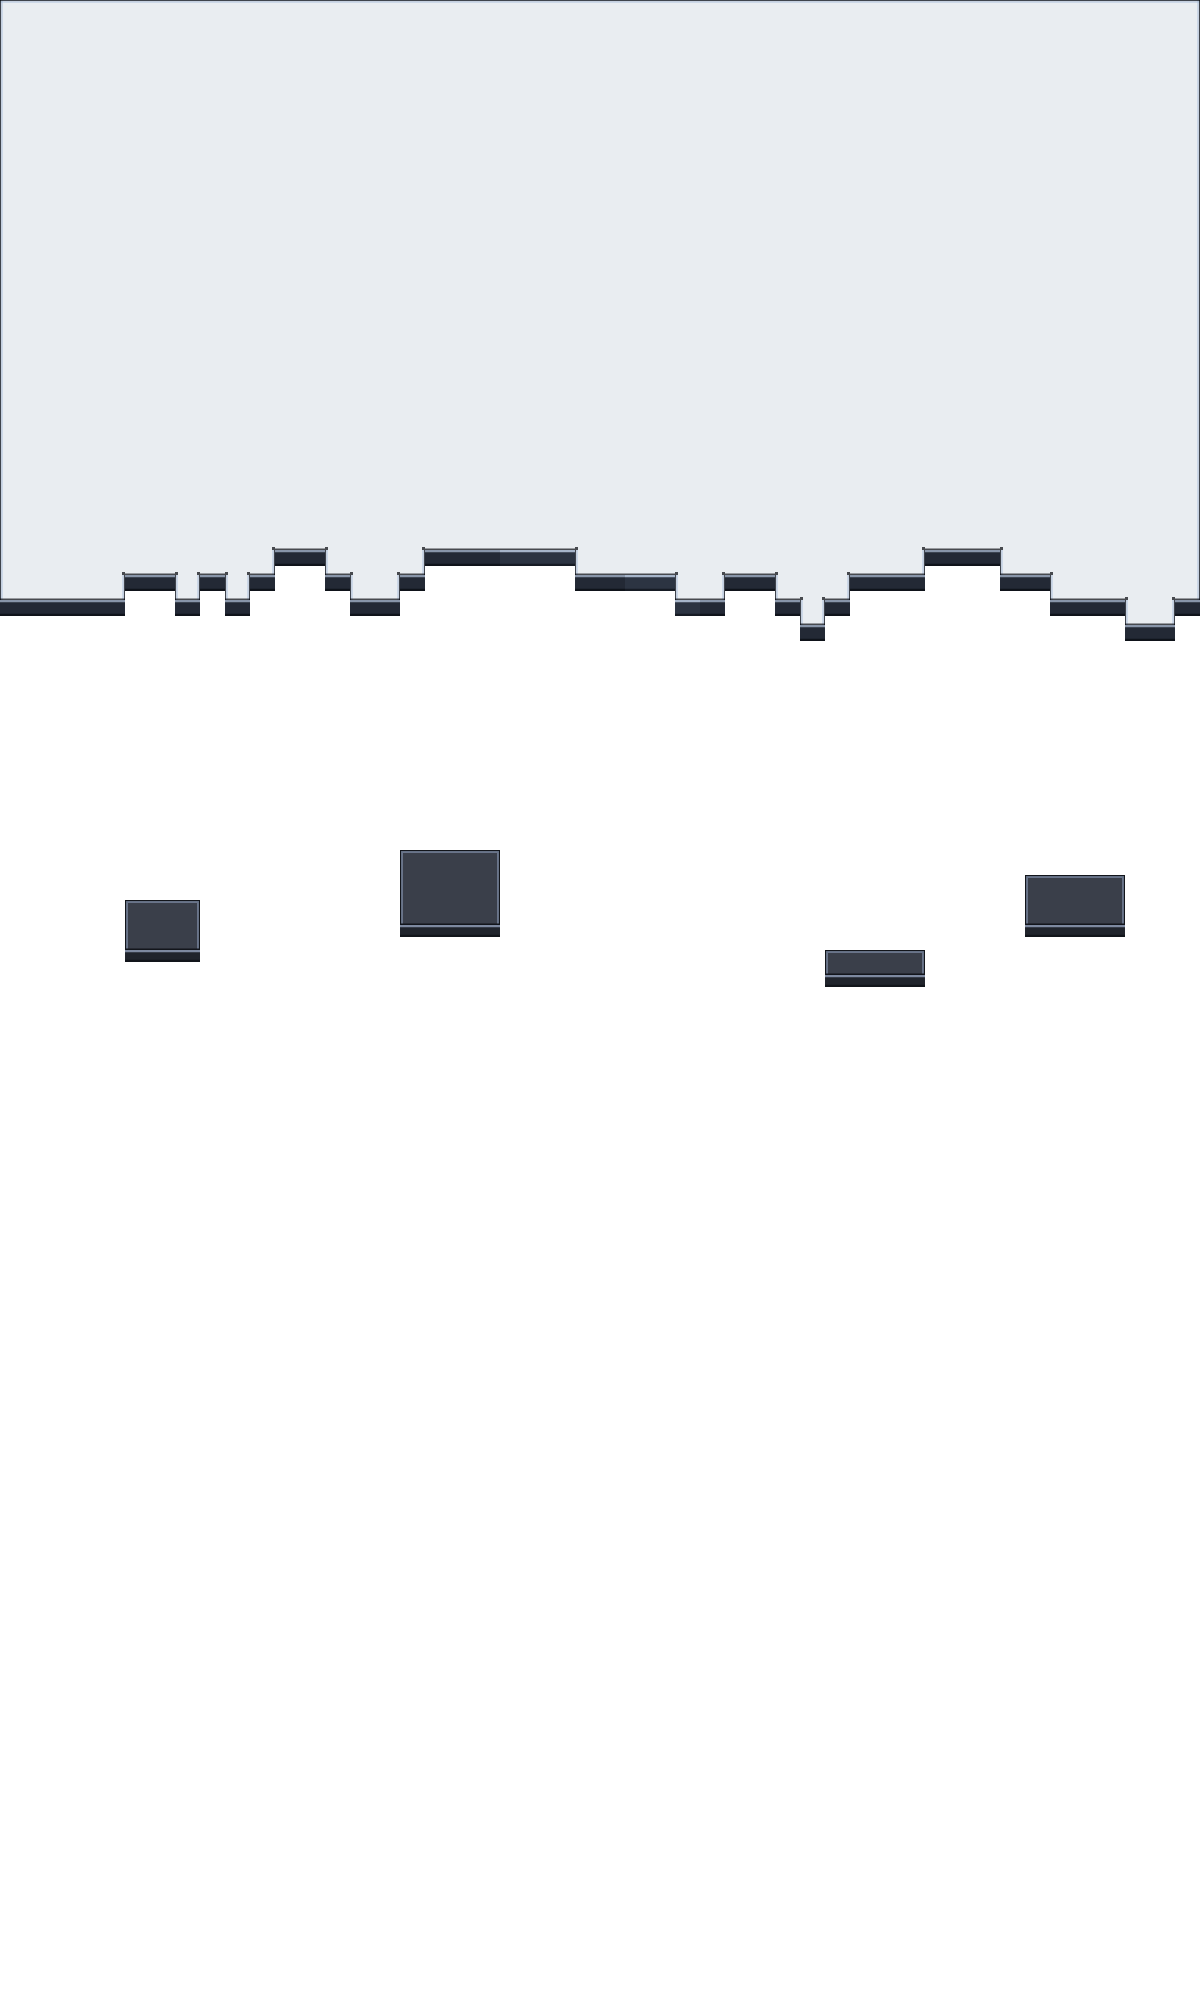
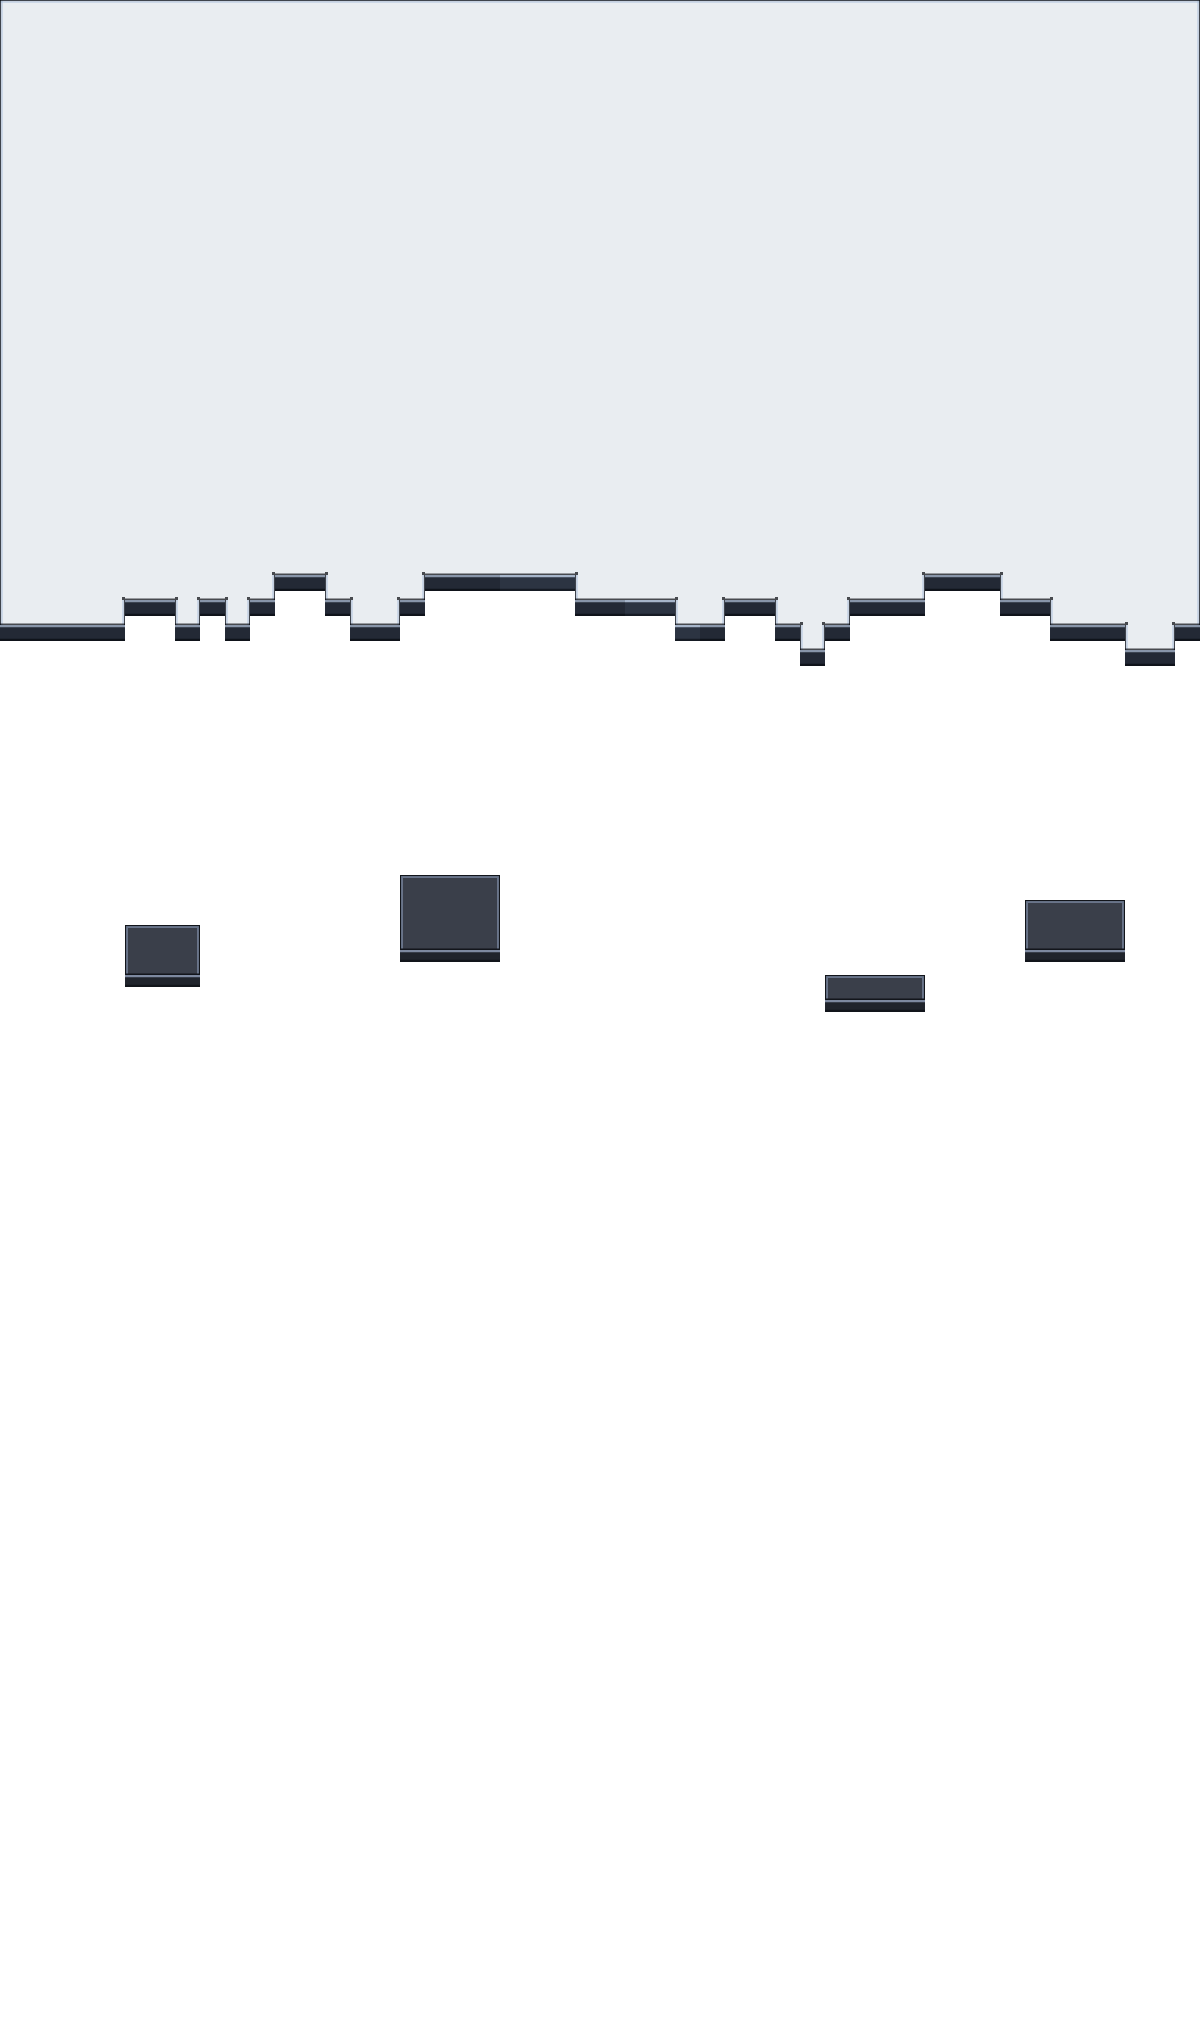
👁 지형층 2단계 — 절벽이 시야를 막는다
⭐ **막는 일은 이미 엔진이 하고 있었다.** `_fogReveal` 의
`if(!air && fogHeightAt(...)>vh) continue;` 한 줄이 「저지 → 고지」를 이미 자른다 —
지금까지 그 **배열이 비어 있었을 뿐**이다(캠프는 flat:true 로 관리자 테스트 언덕조차
꺼 두었다). 그래서 새로 만든 것은 **배열을 채우는 함수 둘**뿐이다.

- js/10-engine.js — techFogInit 끝에 훅 한 줄(campFogExtra 와 같은 어법).
  ⚠ 순서: fog 를 만든 **뒤**, techFogCompute 보다 **앞**.
- js/24-terrain.js — campTerrPushHeight(f) / campTerrHeightFill(f).
  🚪 램프는 **낮은 쪽**으로 친다 — 비탈이니 아래에서 보여야 올라갈 길이 보인다.
  🧹 집으로 돌아오면 고저를 걷는다(우리가 심은 것일 때만 — TECH_HILL 을 지키려고).

스모크가 잡은 것
- 캠프로 돌아와도 **절벽이 안개 데이터에 남아 있었다.** campFogSync 는 f.on=false 로
  끄기만 하고 배열은 그대로 둔다 → 다음에 안개를 켜는 순간 없는 벽이 시야를 막는다.
- 훅을 「campTerrSync 만 부르고 끝」으로 두면 안 된다. 지형 서명이 그대로면 sync 는
  아무것도 안 하는데 안개는 방금 새로 파여 높이가 0이고, techFogInit 은 끝에서 **바로**
  시야를 계산한다 → 첫 시야가 절벽을 넘어 고원 건물이 b.vis 로 켜진다.

검사 하네스
- ⏱ **protocolTimeout 을 늘 넉넉히 준다.** lobby 한 판이 page.evaluate 한 번이라
  기본 180초 상한에 통째로 걸린다. 실측 2026-09-10: 같은 커밋이 같은 기계에서
  105 → 118 → 158 → 194초로 흔들렸다(지형 몫은 그중 ~10초). 상한을 넘기면 **결과가
  한 줄도 안 나와** 어느 검사가 왜 실패했는지 알 수 없다 — 실제로 그 때문에 가드 두 개가
  무는지 못 재고 헤맸다. 단정문은 그대로이니 검사가 느슨해지는 것이 아니다.

검증: 스모크에 네 가지 추가(안개 고저 = 지형 · 램프는 낮게 · 아래에서 고원이 안 보이고
공중은 보인다 · 새로 판 안개에 그 자리에서 고저가 찬다 · 집에는 고저가 없다).
**주입 시험 4건 전부 물었다.** 화면은 node scripts/camp-terr-shot.mjs (camp-terr-fog.png).

⚠ 아직 **절벽이 시야는 막는데 걸음은 안 막는다** — 3단계에서 풀린다.

Claude-Session: https://claude.ai/code/session_01EtmtaHFCqqHiZ1fmbN5ZoQ

diff --git a/js/24-terrain.js b/js/24-terrain.js
@@ -248,14 +248,50 @@ function campTerrSync(){
   const f = (typeof G !== 'undefined' && G.tech) ? G.tech.fog : null;
   // ⚠ 안개가 **꺼져 있어도** 지형은 남는다 — 격자만 빌리는 것이지 안개에 딸린 층이 아니다.
   //   (던전인가는 campTerrOn 이 판단한다 · 던전에 들어가면 campFogSync 가 늘 먼저 판다.)
-  if(!campTerrOn() || !f){ CAMPT = null; if(_terrCv && _terrCv.parentNode) _terrCv.parentNode.removeChild(_terrCv); return false; }
+  if(!campTerrOn() || !f){
+    CAMPT = null; if(_terrCv && _terrCv.parentNode) _terrCv.parentNode.removeChild(_terrCv);
+    // 🧹 **집으로 돌아왔으면 안개의 고저도 걷는다**(2026-09-10 스모크가 잡았다).
+    //   `campFogSync` 는 캠프에서 `f.on=false` 로 끄기만 하고 배열은 그대로 둔다 — 그러면
+    //   **절벽이 데이터에 남아** 나중에 안개를 켜는 순간(관리자 탭·다음 던전) 없는 벽이 시야를 막는다.
+    //   ⚠ **우리가 심어 둔 것일 때만** 지운다 — 안 그러면 관리자 탭의 테스트 언덕(TECH_HILL)까지 지운다.
+    if(_terrPushed && f){ f.height.fill(0); _terrPushed = false; }
+    return false; }
   const C0 = (typeof campState === 'function') ? campState() : null;
   const dg = campDgN(), seed = (C0 && C0.foeSeed) || 1;
   const wy0 = (f.wy0 == null ? 0 : f.wy0), wy1 = (f.wy1 == null ? 1 : f.wy1);
   const sig = dg + '/' + seed + '/' + f.cols + 'x' + f.rows + '/' + wy0.toFixed(4);
   if(CAMPT && CAMPT.sig === sig) return true;
   campTerrInit(wy0, wy1, f.rows); campTerrGen(dg, seed); CAMPT.sig = sig;
+  campTerrPushHeight(f);   // 👁 지형이 새로 생겼으면 안개의 고저도 갈아 끼운다(씨앗이 바뀌면 절벽 자리도 바뀐다)
   return true; }
+/* ══ 👁 시야 차단 — 안개에 고저를 준다 (2026-09-10 · 2단계) ═══════════════════════════
+ *   ⭐ **막는 일은 이미 엔진이 한다** — `_fogReveal` 의 `if(!air && fogHeightAt(...)>vh) continue;`
+ *     한 줄이 「저지 → 고지」를 이미 자르고 있었다. 지금까지 그 배열이 **비어 있었을 뿐**이다
+ *     (캠프는 `techFogInit(..., {flat:true})` 로 관리자 테스트 언덕조차 꺼 두었다).
+ *     그래서 2단계에 새로 만든 것은 **배열을 채우는 함수 둘**뿐이다. ⛔ 차단 규칙을 새로 짜지 말 것.
+ *   🚪 **램프는 「낮은 쪽」으로 친다.** 비탈이니 아래에서 보이는 것이 맞고, 그래야 올라갈 길이 보인다.
+ *     ⛔ 램프를 고지로 치지 말 것 — 통로가 통째로 어둠에 잠겨 「어디로 올라가나」가 사라진다.
+ *     ⚠ 그래서 램프 위에 선 유닛은 아직 고원을 못 본다. 램프를 다 올라 **고원 칸을 밟는 순간**
+ *       시야가 열린다 — 능선을 넘는 그 느낌이 의도한 것이다.
+ *   ⚠ 공중 유닛은 지형을 무시한다(엔진이 `air` 로 이미 가른다). */
+let _terrPushed = false;   // 우리가 안개에 고저를 심어 두었나(집으로 돌아갈 때 걷기 위해)
+function campTerrPushHeight(fog){
+  const f = fog || ((typeof G !== 'undefined' && G.tech) ? G.tech.fog : null);
+  const T = CAMPT;
+  if(!f || !T || T.cols !== f.cols || T.rows !== f.rows) return 0;
+  let n = 0;
+  for(let i = 0; i < f.height.length; i++){
+    const h = T.r[i] ? 0 : T.h[i];   // 🚪 램프 = 비탈 → 낮은 쪽
+    f.height[i] = h; if(h) n++; }
+  _terrPushed = true;
+  return n; }
+/* 👁 **엔진이 부르는 훅** — `techFogInit` 이 격자를 새로 판 직후. 캠프 밖에서는 스스로 빠진다.
+ *   ⚠ 여기서 `campTerrSync` 만 부르고 끝내면 안 된다 — 지형 서명이 그대로면 sync 는 아무것도
+ *     안 하는데, **안개는 방금 새로 파여 높이가 0**이다. 그래서 늘 다시 밀어 넣는다. */
+function campTerrHeightFill(f){
+  if(!f || !campTerrSync()) return 0;
+  return campTerrPushHeight(f); }
+
 /* 매 프레임 — 구운 그림 한 장을 뷰 사각형에 확대해 그린다(techFogDraw 와 같은 식). */
 function campTerrDraw(){
   if(!campTerrSync()) return false;

diff --git a/test/smoke.js b/test/smoke.js
@@ -7836,6 +7836,7 @@ async function groupLobby(){
       // ① 집(캠프)에는 지형이 없다 — 집은 평지다
       campEnterDungeon(0); campBattleClose(); campFogSync(); campTerrDraw();
       assert(typeof CAMPT==='undefined'||!CAMPT,'캠프(집)에 지형이 생겼다 — 집은 평지다');
+      if(G.tech.fog) assert(!Array.prototype.some.call(G.tech.fog.height,v=>v>0),'캠프(집)에 고지가 남아 있다');
       // ② 던전 — 격자는 안개에서 받아 온다(⛔ 따로 계산하면 절벽이 한 칸 밀린다)
       campEnterDungeon(1); CAMPB=null; campCombatStep(0.05);
       skipIf(!CAMPB,'전장이 안 열림');
@@ -7876,6 +7877,39 @@ async function groupLobby(){
           if(prev!=null) worst=Math.max(worst,Math.abs(last-prev));
           prev=last; }
         assert(worst<=1,'고원 밑변이 이웃 열끼리 '+worst+'칸 튄다 — 빗살로 보인다'); }
+      /* 👁 **안개를 새로 팔 때 그 자리에서 고저가 채워진다**(10-engine techFogInit 의 훅).
+       *   ⚠ 「다음 프레임에 채워진다」로는 부족하다 — `techFogInit` 은 끝에서 **바로**
+       *     `techFogCompute()` 를 돌린다. 그때 고저가 0 이면 **첫 시야가 절벽을 넘어** 퍼지고,
+       *     그 한 번으로 고원 위 건물이 `b.vis` 로 켜져 「가 보지도 않았는데 보이는」 상태가 된다. */
+      { G.tech.fog=null; campFogSync();
+        const ff0=G.tech.fog;
+        assert(ff0,'전제: 안개를 다시 팠다');
+        let hi0=0; for(const v of ff0.height) if(v) hi0++;
+        assert(hi0>0,'안개를 새로 팠는데 고저가 비어 있다 — 첫 시야가 절벽을 넘는다');
+        for(let i=0;i<3;i++){ campCombatStep(0.05); try{ campFrame(performance.now()+800+i*40); }catch(_e){} }
+        campTerrDraw(); }
+      // 👁 **시야 차단**(2단계) — 안개의 고저가 지형에서 온다. 램프는 **낮은 쪽**으로 친다.
+      { const ff=G.tech.fog; let bad=0, rampHi=0;
+        for(let i=0;i<ff.height.length;i++){ const want=CAMPT.r[i]?0:CAMPT.h[i];
+          if(ff.height[i]!==want) bad++; if(CAMPT.r[i]&&ff.height[i]) rampHi++; }
+        assert(bad===0,'안개 고저가 지형과 다르다: '+bad+'칸');
+        assert(rampHi===0,'램프를 고지로 쳤다 — 통로가 어둠에 잠겨 올라갈 길이 안 보인다');
+        // 아래에서 쏜 시야가 절벽을 못 넘는다 · 공중은 넘는다
+        const C2=ff.cols, tx=Math.floor(C2/2);
+        let last=-1; for(let ty=0;ty<ff.rows;ty++) if(ff.height[ty*C2+tx]) last=ty;
+        assert(last>=0,'전제: 가운데 열에 고지가 있다');
+        const below=last+4;
+        assert(below<ff.rows,'전제: 절벽 아래에 설 자리가 있다');
+        const sp0=(ff.wy0==null?0:ff.wy0), span=(ff.wy1==null?1:ff.wy1)-sp0;
+        const cwx=t=>(t+0.5)/C2, cwy=t=>sp0+((t+0.5)/ff.rows)*span;
+        const shoot=(air)=>{ for(let i=0;i<ff.state.length;i++) ff.state[i]=1;
+          _fogReveal(cwx(tx), cwy(below), 8, air, ff, 1);
+          return { hi:ff.state[last*C2+tx], low:ff.state[below*C2+tx] }; };
+        const g=shoot(false);
+        assert(g.low===2,'전제: 선 자리는 열린다');
+        assert(g.hi!==2,'아래에서 고원 위가 보인다 — 고저 차단이 안 걸렸다');
+        assert(shoot(true).hi===2,'공중인데 고원이 안 보인다 — air 가 지형을 무시해야 한다');
+        techFogCompute(); }
       // ⑥ 씨앗이 같으면 지형도 같다(⛔ Math.random 금지 — 저장·복원하면 자리가 바뀐다)
       { const a=Array.from(CAMPT.h).join('')+'|'+Array.from(CAMPT.w).join('');
         campTerrGen(campDgN(), C.foeSeed||1);

diff --git a/js/10-engine.js b/js/10-engine.js
@@ -1255,6 +1255,11 @@ function techFogInit(on, opt){ if(!G.tech) return; const o=opt||{};
   if(!o.flat) for(let ty=0;ty<rows;ty++){ const wy=wy0+((ty+0.5)/rows)*span; for(let tx=0;tx<cols;tx++){ const wx=(tx+0.5)/cols;
     if(wx>=H.x0&&wx<=H.x1&&wy>=H.y0&&wy<=H.y1) height[ty*cols+tx]=H.h; } }
   G.tech.fog={ on:!!on, cols, rows, state:new Uint8Array(cols*rows), height, t:0, wy0:wy0, wy1:wy1 };
+  // 🗺 **캠프 던전은 지형(js/24-terrain.js)이 고저를 준다** — 엔진에 캠프 코드를 넣지 않으려고 뺀 훅
+  //   (`campFogExtra` 와 같은 어법). 캠프 밖에서는 스스로 빠지므로 관리자 탭·오토배틀은 그대로다.
+  //   ⚠ 순서가 중요하다 — 지형은 **여기서 만든 격자**(cols·rows·wy0)를 빌려 쓴다. 그래서 fog 를
+  //     만든 **뒤**에 부르고, 시야 계산(techFogCompute)보다는 **앞**이어야 한다.
+  if(typeof campTerrHeightFill==='function') campTerrHeightFill(G.tech.fog);
   if(on) techFogCompute(); }
 function techFogEnabled(){ return !!(G.tech && G.tech.fog && G.tech.fog.on); }
 function techFogVisAt(nx,ny){ if(!techFogEnabled()) return 2; const f=G.tech.fog, t=_fogTile(nx,ny,f); return f.state[t.ty*f.cols+t.tx]; }

diff --git a/ARCHITECTURE.md b/ARCHITECTURE.md
@@ -100,12 +100,39 @@
 - 🚧 **길이 막히면 안 된다**(`campTerrConnected` · flood fill). 막혔으면 마지막 덩어리부터 걷어 낸다 —
   릴레이 던전은 적이 나한테 와야 성립한다.
 
-**지금 상태(1단계 = 그림만).** 시야 차단·길막기는 **아직 배선 안 했다**:
-- 👁 2단계 — 안개 엔진의 `f.height` 를 지형에서 채운다. `_fogReveal` 의 고저 차단은 **이미 동작한다**(지금은 `flat:true`).
-- 🚶 3단계 — `window._techNavRects` 를 감싸(캠프 전용 · `campPatchHit` 과 같은 자리) 지형 사각형을 덧붙인다.
+#### 👁 시야 차단 (2단계 · 2026-09-10)
+
+**막는 일은 이미 엔진이 하고 있었다.** `_fogReveal` 의 `if(!air && fogHeightAt(...)>vh) continue;`
+한 줄이 「저지 → 고지」를 자른다 — 지금까지 그 배열이 **비어 있었을 뿐**이다(캠프는
+`techFogInit(..., {flat:true})` 로 관리자 테스트 언덕조차 꺼 두었다). 그래서 2단계에 새로 만든 것은
+**배열을 채우는 함수 둘**뿐이다. ⛔ 차단 규칙을 새로 짜지 말 것.
+
+| 무엇 | 어디 |
+|---|---|
+| 엔진이 부르는 훅 | `techFogInit` 끝(10-engine) → `campTerrHeightFill(f)` |
+| 실제로 채우는 곳 | `campTerrPushHeight(f)` — `campTerrSync` 가 지형을 새로 만들 때도 부른다 |
+
+⚠ **훅을 「campTerrSync 만 부르고 끝」으로 줄이지 말 것.** 지형 서명이 그대로면 sync 는 아무것도 안 하는데
+**안개는 방금 새로 파여 높이가 0**이다. 그리고 `techFogInit` 은 끝에서 **바로** `techFogCompute()` 를 돌리므로,
+그때 0이면 **첫 시야가 절벽을 넘어** 퍼지고 그 한 번으로 고원 위 건물이 `b.vis` 로 켜진다
+(「가 보지도 않았는데 보인다」). 그래서 훅은 **늘 다시 밀어 넣는다**.
+
+🚪 **램프는 「낮은 쪽」으로 친다.** 비탈이니 아래에서 보이는 것이 맞고, 그래야 올라갈 길이 보인다.
+⛔ 램프를 고지로 치지 말 것 — 통로가 통째로 어둠에 잠겨 「어디로 올라가나」가 사라진다.
+⚠ 그래서 램프 위의 유닛은 아직 고원을 못 본다. 다 올라 **고원 칸을 밟는 순간** 열린다(능선을 넘는 느낌).
+
+🧹 **집으로 돌아오면 안개의 고저도 걷는다**(`_terrPushed` 가 참일 때만).
+`campFogSync` 는 캠프에서 `f.on=false` 로 끄기만 하고 배열은 그대로 두므로, 안 걷으면 **절벽이 데이터에 남아**
+다음에 안개를 켜는 순간 없는 벽이 시야를 막는다(2026-09-10 스모크가 잡았다).
+⚠ **우리가 심은 것일 때만** 지운다 — 안 그러면 관리자 탭의 `TECH_HILL` 까지 지운다.
+
+**남은 것.**
+- 🚶 3단계(길막기) — `window._techNavRects` 를 감싸(캠프 전용 · `campPatchHit` 과 같은 자리) 지형 사각형을 덧붙인다.
   ⚠ 칸 하나당 사각형 하나로 주면 A\* 가 터진다(`_techFindPath` 는 꼭짓점 전부를 노드로 쓴다) — **큰 덩어리로 합칠 것**.
   ⚠ 그전에 **건물을 장애물로 만들었다가 아군이 갇힌 적이 있다**(19-camp.js 3017) — 원인은 길찾기 부재였고
   지금은 `campMove` 가 `_techFindPath` 를 쓴다. 벽도 반드시 그 경로를 타야 한다.
+- ⚠ **2단계까지는 앞뒤가 조금 안 맞는다** — 절벽이 시야는 막는데 **걸음은 안 막는다**(유닛이 절벽을 뚫고 오른다).
+  3단계에서 풀린다.
 
 🎬 **손댔으면 `node scripts/camp-terr-shot.mjs` 로 눈으로 볼 것** — 칸이 맞물리나 / 절벽이 높이로 읽히나가
 전부라 숫자로는 안 보인다.

diff --git a/CLAUDE.md b/CLAUDE.md
@@ -65,7 +65,8 @@
   - 🎨 조각은 **네 조각 오토타일**이다(한 칸을 1/4씩 · 이웃 셋만 본다 · 그림 12칸으로 256가지). ⛔ 47조각 비트마스크·회전 재활용으로 되돌리지 말 것. 지형은 안 변하니 **한 번 굽고**(`campTerrBake`) 매 프레임엔 한 장만 그린다.
   - ⚠ **고원 윗면은 반투명**이다 — 지금 바닥은 배경 그림 한 장이고 거기 고원이 이미 그려져 있다(ART.md §17). 불투명하게 채우면 커다란 회청색 판이 된다(실측). 바닥이 타일로 바뀌기 전에는 되돌리지 말 것.
   - 🚪 **램프를 빼지 말 것** · 🚧 **길이 막히면 안 된다**(`campTerrConnected`) · 🧱 벽은 **0.05~0.16 띠에만**(내 격자·적 기지 줄과 겹치면 건물 위에 선다) · ⛰ 고원 밑변은 **계단**(열마다 따로 굴리면 빗살이 된다).
-  - 🎬 **손댔으면 `node scripts/camp-terr-shot.mjs` 로 눈으로 볼 것.** 👁 시야 차단·🚶 길막기는 **아직 배선 안 했다**(2·3단계) — 3단계는 `_techNavRects` 를 감싸고 **벽 칸을 큰 덩어리로 합쳐야** A\* 가 안 터진다.
+  - 👁 **시야 차단은 배선됐다**(2026-09-10 2단계) — 막는 일은 엔진(`_fogReveal`)이 이미 하고 있었고, 새로 만든 것은 **안개의 `f.height` 를 채우는 함수 둘**뿐이다(`campTerrHeightFill` 훅 ← `techFogInit` · `campTerrPushHeight`). ⛔ 차단 규칙을 새로 짜지 말 것 · ⛔ 훅을 「sync 만 부르고 끝」으로 줄이지 말 것(안개는 방금 새로 파여 높이가 0인데 `techFogInit` 이 **바로** 시야를 계산한다 → 첫 시야가 절벽을 넘어 고원 건물이 `b.vis` 로 켜진다) · 🚪 **램프는 낮은 쪽으로 친다**(⛔ 고지로 치면 올라갈 길이 어둠에 잠긴다) · 🧹 **집으로 오면 고저를 걷는다**(⚠ 우리가 심은 것일 때만 — 관리자 `TECH_HILL` 을 지우면 안 된다).
+  - 🎬 **손댔으면 `node scripts/camp-terr-shot.mjs` 로 눈으로 볼 것.** 🚶 길막기는 **아직 배선 안 했다**(3단계) — `_techNavRects` 를 감싸고 **벽 칸을 큰 덩어리로 합쳐야** A\* 가 안 터진다. ⚠ 2단계까지는 **절벽이 시야는 막는데 걸음은 안 막는다**.
 - 🧱 **밸런스를 잴 땐 「도달 던전·라운드」를 쓰지 말 것**(2026-09-08 실측) — 한 팔 안의 편차가 팔 사이 차이만큼
   크다. **번 돈**이 훨씬 안정적인 자다. 전략이 갈리는지는 **`node scripts/camp-strat.mjs`**(전략 프리셋 + 갈림도)로 잰다.
   ⚠ 옛 「구매 정책 A/B/C」는 **전략이 아니다**(셋 다 같은 ROI 순위) — 그걸로 잰 비교는 전부 같은 전략을 견준 것이다.
